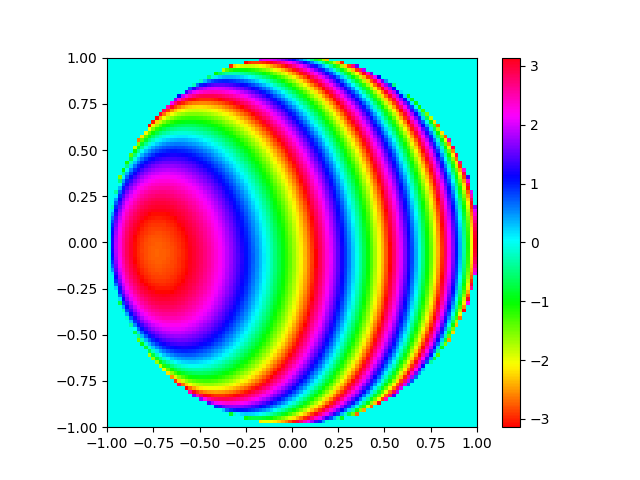
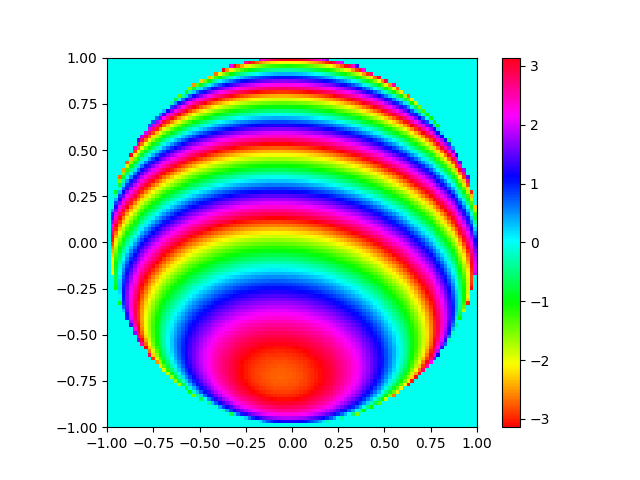
last plot and uv orientation fixed

diff --git a/Ex7.py b/Ex7.py
@@ -16,6 +16,7 @@ N = 400
 freq_bins = np.fft.fftfreq(N, 1/sample_rate)[:200]
 
 doas = []
+u_vs = []
 
 for n in tqdm(range(0,16)):
     data_dict[n] = wavfile.read("Data/Preprocessed_UAV_" + str(n+1) + ".wav")[-1]
@@ -30,10 +31,11 @@ for second in tqdm(range(100)):
 
     fourier_channel_matrix = np.array(list(fourier_channel_dict.values()))
 
-    steps = 50
+    steps = 20
 
-    doa = doa_estimator(steps,fourier_channel_matrix,freq_bins)
+    doa,u_v = doa_estimator(steps,fourier_channel_matrix,freq_bins)
     doas.append((np.rad2deg(doa[0]),np.rad2deg(doa[1])))
+    u_vs.append(u_v)
 
 
 plt.ylim(0,400)
@@ -50,4 +52,10 @@ plt.ylabel("Angle [deg]")
 plt.title("DOA Elevation angle")
 plt.scatter(list(range(100)), [ a[1] for a in doas])
 plt.savefig("doa_elevation.png")
+plt.show()
+
+plt.ylim(-1,1)
+plt.xlim(-1,1)
+plt.scatter([a[0] for a in u_vs], [a[1] for a in u_vs])
+plt.savefig("doa_uv_cooriantes")
 plt.show()

diff --git a/Ex3.py b/Ex3.py
@@ -15,15 +15,15 @@ for u in tqdm(range(-steps,steps)):
     for v in range(-steps,steps):
         if (u/steps)**2 + (v/steps)**2 < 1:
             for i,ret in enumerate(array_transfer_vector(u/steps,v/steps,9000)):
-                u_v_arrays[i][u+steps][v+steps] = np.angle(ret)
+                u_v_arrays[i][v+steps][u+steps] = np.angle(ret)
 
-u_v_arrays = [np.flip(u_v_array,axis = 0) for u_v_array in u_v_arrays]
+# u_v_arrays = [np.flip(u_v_array,axis = 0) for u_v_array in u_v_arrays]
 
 extend = [-1,1,-1,1]
 
 for i in range(0,16):
     plt.clf()
-    im = plt.imshow(u_v_arrays[i],extent = extend,cmap = "hsv")
+    im = plt.imshow(u_v_arrays[i],extent = extend,cmap = "hsv",origin = 'lower')
     plt.colorbar(im)
     plt.savefig("array_transfer_vector_heatmap" + str(i+1) + ".png")
     plt.show()

diff --git a/Ex5.py b/Ex5.py
@@ -30,14 +30,13 @@ u_v_array = np.zeros((2 * steps, 2 * steps))
 for u in tqdm(range(-steps,steps)):
     for v in range(-steps,steps):
         if (u/steps)**2 + (v/steps)**2 < 1:
-            u_v_array[u+steps][v+steps] = broadband_beamforming(u/steps,v/steps,fourier_channel_matrix, freq_bins)
+            u_v_array[v+steps][u+steps] = broadband_beamforming(u/steps,v/steps,fourier_channel_matrix, freq_bins)
 
 extend = [-1,1,-1,1]
 
-u_v_array = np.flip(u_v_array,axis = 1)
 
 plt.clf()
-im = plt.imshow(u_v_array.T,extent = extend,cmap = "hsv")
+im = plt.imshow(u_v_array,extent = extend,cmap = "hsv",origin = 'lower')
 plt.colorbar(im)
 plt.savefig("broadband_beamforming_heatmap.png")
 plt.show()

diff --git a/Ex4.py b/Ex4.py
@@ -14,14 +14,12 @@ u_v_array = np.zeros((2 * steps, 2 * steps))
 for u in tqdm(np.arange(-1,1,1/steps)):
     for v in np.arange(-1,1,1/steps):
         if(u**2 + v**2 < 1):
-            u_v_array[int((u+1)*steps)][int((v+1)*steps)]= np.absolute(array_factor(u,v,9000))
+            u_v_array[int((v+1)*steps)][int((u+1)*steps)]= np.absolute(array_factor(u,v,9000))
 
 extend = [-1,1,-1,1]
 
-u_v_array = np.flip(u_v_array,axis = 0)
-
 plt.clf()
-im = plt.imshow(u_v_array,extent = extend,cmap = "hsv")
+im = plt.imshow(u_v_array,extent = extend,cmap = "hsv",origin = 'lower')
 plt.colorbar(im)
 plt.savefig("array_factor_heatmap.png")
 plt.show()

diff --git a/func.py b/func.py
@@ -41,4 +41,4 @@ def doa_estimator(steps, Z, freq_bins):
 
     phi = (phi + 2 * np.pi) % (2*np.pi)
 
-    return (phi,theta)
+    return (phi,theta), (u,v)
